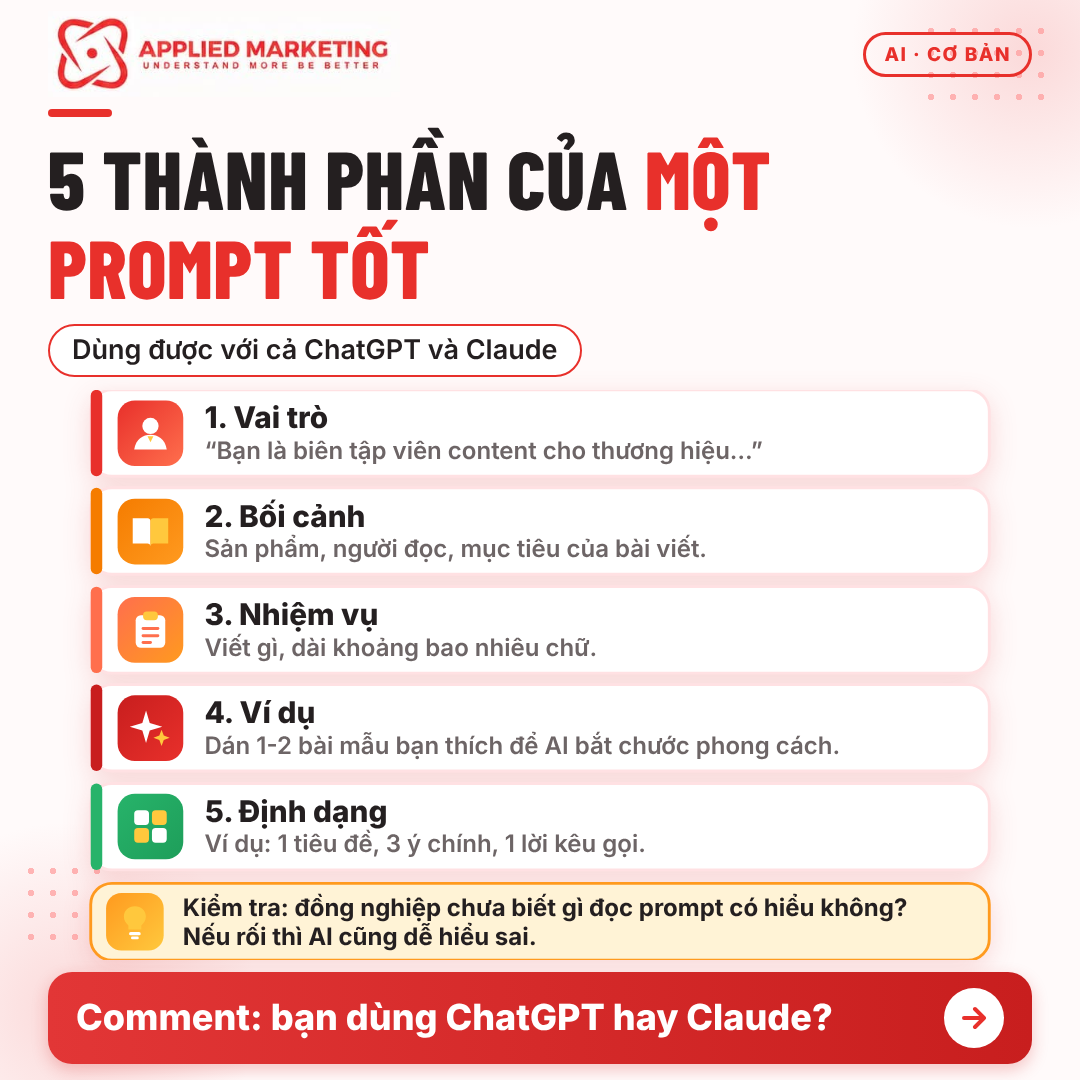
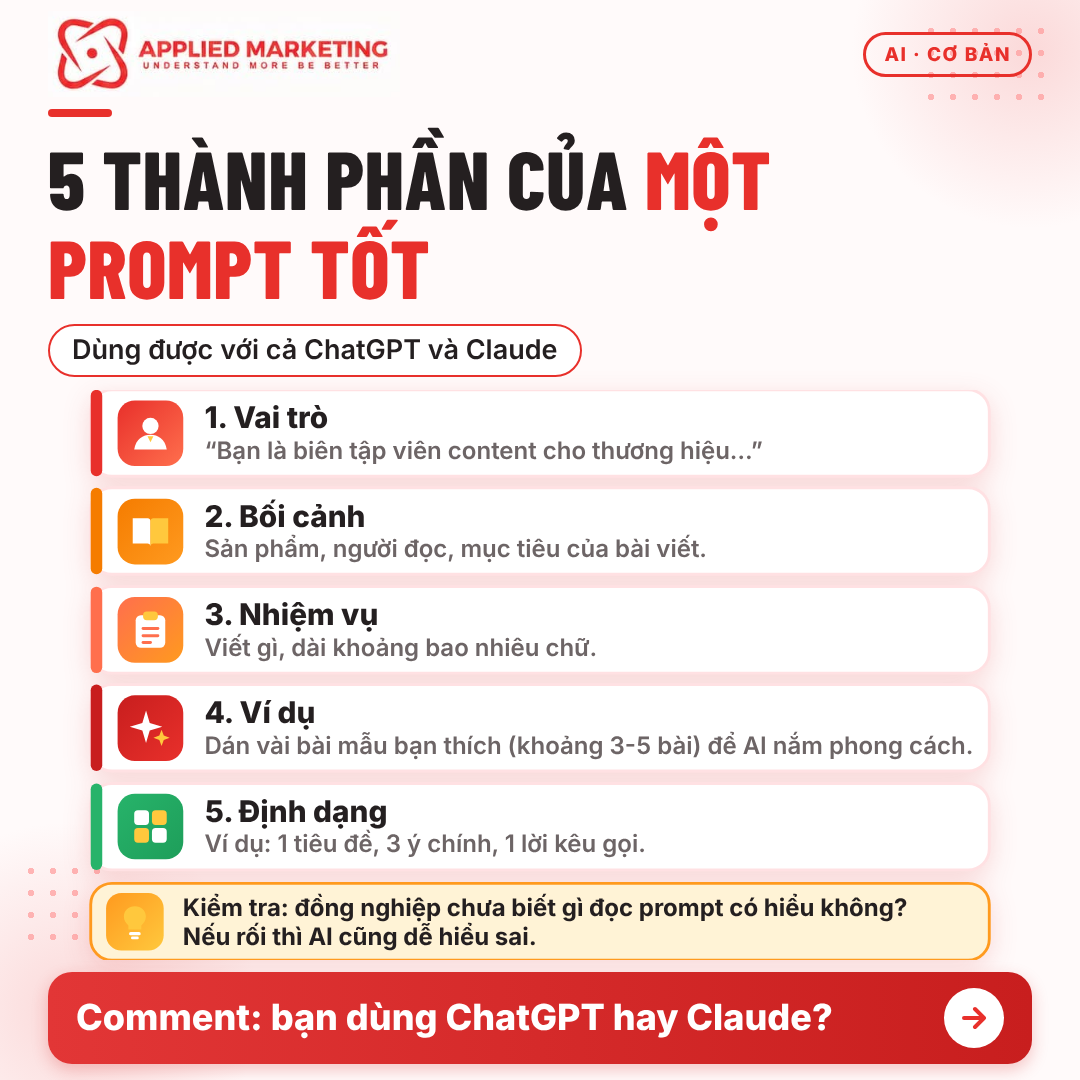
CMO fact-check gate: correct captions/images for posts 2,4,5,7,9,11; add cmo_verified flag and report
Claude-Session: https://claude.ai/code/session_015BCkHMgBCGXuRfdZDgvchy

Changed region(s): [[0.2444, 0.6722, 0.8861, 0.7028]]

diff --git a/cmo/CMO_FactCheck_2026-11-07.md b/cmo/CMO_FactCheck_2026-11-07.md
@@ -1,0 +1,44 @@
+# Báo cáo CMO kiểm chứng nội dung – Fanpage Xờ & Chạm Marketing
+
+Ngày kiểm: 07/11/2026 · Phạm vi: bài 2–14 (lịch 09–15/11/2026), cả chữ trong caption và chữ trên hình. Bài 1 đã đăng thử từ trước, chưa chạy qua cổng này.
+
+Nhãn: ĐÃ XÁC MINH (nguồn chính thức/gốc) · THỨ CẤP (nguồn lại, chưa mở bản gốc) · QUAN ĐIỂM TÁC GIẢ (khung của page, không gán cho bên thứ ba) · CHƯA XÁC MINH.
+
+## 1. Khẳng định đã kiểm chứng
+
+| Bài | Khẳng định | Kết quả | Nguồn (tra 07/11/2026) |
+|---|---|---|---|
+| 9, 10 | NN/g chia giọng điệu thành 4 trục: nghiêm túc–hài hước, trang trọng–thân mật, tôn trọng–phá cách (irreverent), điềm tĩnh–nhiệt huyết | ĐÃ XÁC MINH | nngroup.com/articles/tone-of-voice-dimensions/ |
+| 2 | Hướng dẫn của Anthropic nhấn mạnh nói rõ ràng, đưa ví dụ, giao vai trò | ĐÃ XÁC MINH qua kết quả tìm kiếm trang docs.claude.com / platform.claude.com (chưa mở trực tiếp trang) | docs.claude.com/en/docs/build-with-claude/prompt-engineering/multishot-prompting và trang Prompting best practices |
+| 2 | Hướng dẫn của Anthropic nhấn mạnh cho đủ bối cảnh | THỨ CẤP (bản sao tài liệu) | kuware.com bản sao claude-prompting-best-practices |
+| 2 | ChatGPT cũng áp dụng được (rõ ràng, vai trò, ví dụ) | THỨ CẤP (tóm tắt hướng dẫn OpenAI) | marketingaiinstitute.com, briansolis.com |
+| 10, 2 | Anthropic khuyên khoảng 3–5 ví dụ đa dạng | ĐÃ XÁC MINH qua kết quả tìm kiếm trang docs | docs.claude.com multishot-prompting |
+| 3 | CTR = click ÷ hiển thị; CVR = chuyển đổi ÷ click; CPA = chi phí ÷ chuyển đổi | ĐÃ XÁC MINH (nhiều nguồn khớp) | brandwatch.com/social-media-glossary/click-through-rate/; kpu.pressbooks.pub/introdigitalmarketing/chapter/paid-search-metrics/ |
+| 3 | CTR cao, CVR thấp thường nên xem trang đích | THỨ CẤP, bài đã viết ở dạng "có thể", ghi rõ giả định | contentsquare.com, reacheffect.com |
+| 5 | AIDA = Attention, Interest, Desire, Action; PAS = Problem, Agitate, Solution | ĐÃ XÁC MINH (nguồn thứ cấp ngành) | mailchimp.com/resources/copwriting-formulas; smartblogger.com/copywriting-formulas |
+| 5 | BAB = Before, After, Bridge | ĐÃ XÁC MINH (nguồn thứ cấp ngành) | mailchimp.com/resources/copwriting-formulas |
+| 11 | Trụ cột nội dung thường 3–5 | ĐÃ XÁC MINH là thông lệ phổ biến, không phải quy tắc cố định | relevantaudience.com/content-marketing/what-is-a-content-pillar/; later.com/blog/content-pillars-social-strategy/ |
+| 12 | A/B test: giả thuyết rõ, đổi một yếu tố, chọn trước chỉ số, tính cỡ mẫu và thời gian trước, không dừng sớm | ĐÃ XÁC MINH là thực hành phổ biến. Có ý kiến trái chiều về "một biến" khi nhiều lưu lượng (atticusli.com), bài đã ghi "theo các hướng dẫn thực hành phổ biến" | posthog.com/docs/experiments/best-practices; mida.so/blog/avoid-common-mistakes-in-ab-testing |
+| 13 | AI có thể bịa số liệu, nguồn nghe rất hợp lý | THỨ CẤP (tóm tắt hướng dẫn OpenAI nêu mô hình có thể bịa câu trả lời, nhất là trích dẫn, URL) | briansolis.com tóm tắt OpenAI guide |
+
+## 2. Lỗi phát hiện và đã sửa (chữ trước, hình sau)
+
+| Bài | Lỗi | Sửa |
+|---|---|---|
+| 5 | "PAB (Vấn đề, Khoét sâu, Lợi ích)" không tìm thấy là khung chuẩn nào. Khung có thật là BAB (Before, After, Bridge) | Thay PAB bằng BAB (Trước, Sau, Cầu nối) trong caption và hình |
+| 9 | Dịch "irreverent" là "Bất cần" lệch nghĩa; NN/g nói irreverent thường nhắm vào chủ đề, không phải bất cần với người đọc | "Tôn trọng ↔ Phá cách" ở caption và hình |
+| 9 | "Hiếm thương hiệu nào nằm hẳn ở một cực" là khái quát không có nguồn; NN/g nói giọng có thể ở cực hoặc giữa | "Có thể nằm sát một cực hoặc ở điểm giữa" ở caption và hình |
+| 11 | "5–10 ý bài mỗi trụ cột" là số không có nguồn | "nhiều ý bài" ở caption và hình |
+| 11 | "4–5 trụ cột" lệch khoảng 3–5 phổ biến | "3–5 trụ cột" ở tiêu đề caption, lời kêu gọi và hình |
+| 2 | "Dán 1–2 bài mẫu" lệch với khuyến nghị 3–5 ví dụ ở bài 10 | "khoảng 3–5 bài đa dạng" ở caption và hình |
+| 4 | "thương hiệu mạnh lên thấy rõ" là lời hứa kết quả | "nhất quán và dễ nhớ hơn" |
+| 7 | "AI thường cố trả lời ngay" là khái quát không có nguồn | "AI có thể trả lời ngay" |
+
+## 3. Quan điểm tác giả (không gán nguồn ngoài, đã ghi "giả định" ở ví dụ)
+Khung 5 thành phần prompt (bài 2), 3 lớp thương hiệu (bài 4), 4 bước đặt KPI (bài 8), 4 lớp kiểm tra bản nháp (bài 13), quy trình 3 bước dạy giọng cho AI (bài 10), mô tả 3 giai đoạn người đọc (bài 1).
+
+## 4. Chưa xác minh / giữ lại
+- Bài 14 (mentoring 1:1): mô tả dịch vụ cần chủ page xác nhận, mức Vàng, chưa đăng. cmo_verified = false.
+- Bản gốc trang OpenAI prompt guide và một số tài liệu Anthropic chưa mở trực tiếp (công cụ mở trang không được cấp quyền trong phiên này). Các mục THỨ CẤP ở bảng 1 nên mở bản gốc khi có thể.
+- Quy định riêng ngành đào tạo (quảng cáo, cam kết kết quả): chưa tra.
+- "Chính xác 100%" không thể cam kết tuyệt đối. Quy trình bảo đảm: mỗi khẳng định kiểm chứng được đều có nguồn và ngày; khẳng định không kiểm chứng được thì bị sửa nhẹ, ghi giả định, hoặc loại bỏ.
